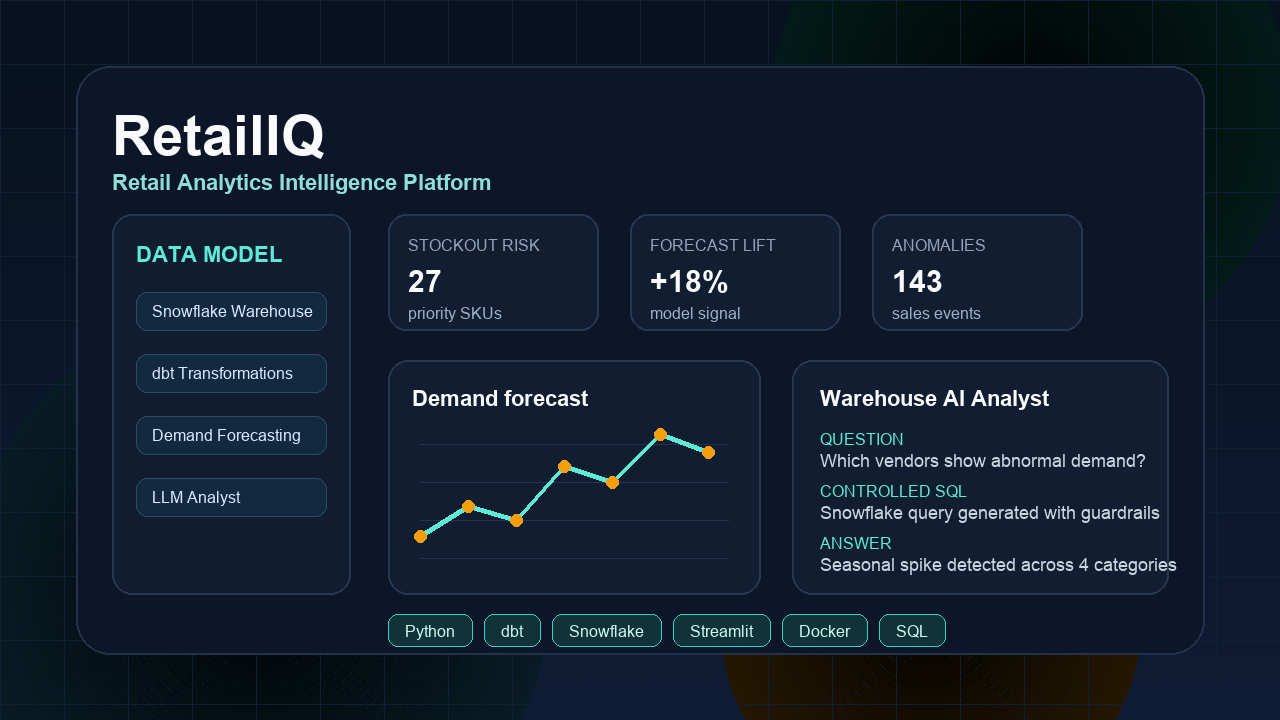
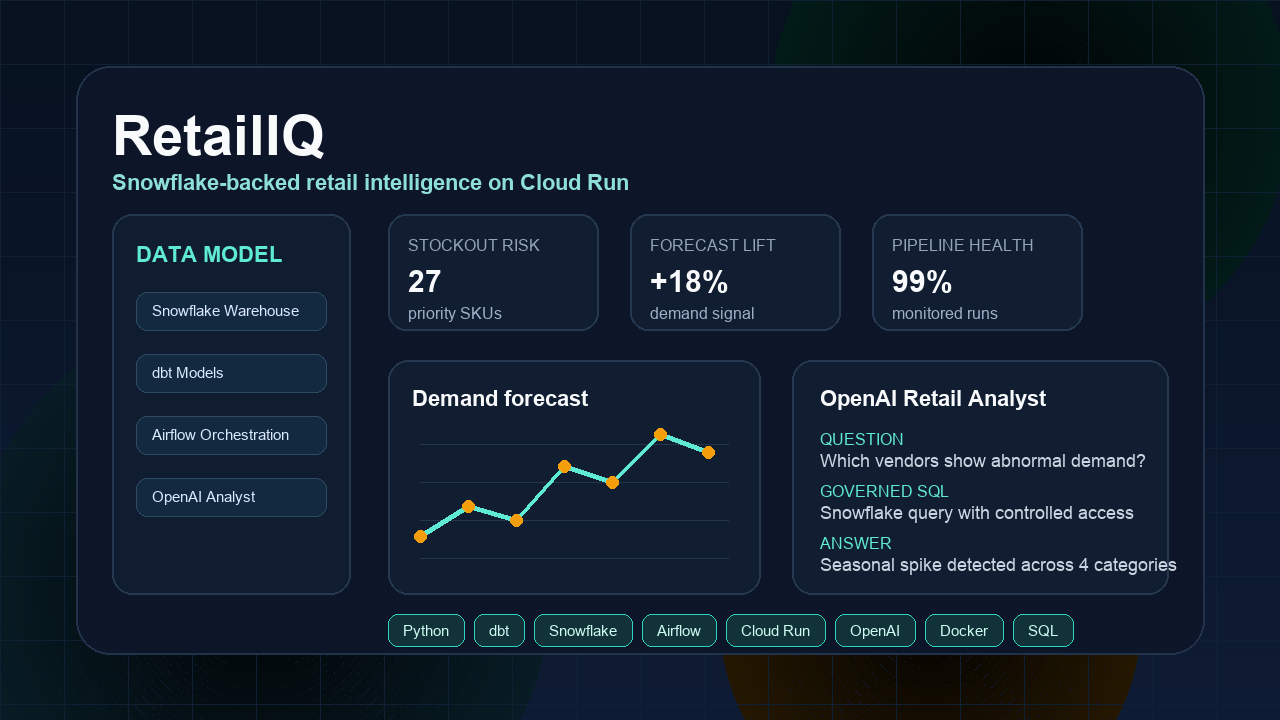
Sync portfolio with latest resume

diff --git a/data-analyst-portfolio/src/data/siteData.js b/data-analyst-portfolio/src/data/siteData.js
@@ -86,6 +86,7 @@ export const siteData = {
       "Neo4j",
       "Hadoop",
       "Kafka",
+      "Airflow",
       "GCP Cloud Storage",
       "Dataflow",
       "ETL Pipelines",
@@ -108,6 +109,7 @@ export const siteData = {
       "JIRA",
       "Confluence",
       "dbt",
+      "OpenAI",
     ],
     "Soft Skills": [
       "Stakeholder Communication",
@@ -126,6 +128,7 @@ export const siteData = {
     "BigQuery",
     "Tableau",
     "Snowflake",
+    "Airflow",
     "RAG",
     "Streamlit",
   ],
@@ -205,15 +208,15 @@ export const siteData = {
       image: "/project-images/retailiq-dashboard.png",
       imageAlt: "RetailIQ retail analytics dashboard preview with forecasting, anomaly, and AI analyst panels",
       impact:
-        "Built a cloud-deployed retail analytics platform that turns Walmart sales data into Snowflake-backed forecasting and KPI dashboards.",
+        "Built a Snowflake-backed retail intelligence platform that turns Walmart sales data into demand forecasts, stockout risk scores, anomaly alerts, and executive dashboards.",
       description:
-        "Developed RetailIQ with Python, dbt, Snowflake, Streamlit, Docker, SQL, demand forecasting, anomaly detection, stockout risk tracking, and governed LLM analyst workflows.",
+        "Deployed RetailIQ on Google Cloud Run with dbt, Airflow, Docker, and OpenAI-powered analysis, including production-style pipeline health monitoring and governed Snowflake SQL access.",
       caseStudy: {
         problem: "Convert Walmart sales data into reliable demand, stockout, anomaly, and KPI intelligence.",
-        approach: "Built Python, dbt, Snowflake, Streamlit, and Docker pipelines with controlled SQL generation for warehouse questions.",
-        result: "Delivered a cloud-deployed analytics platform with Snowflake-backed dashboards and governed LLM analyst workflows.",
+        approach: "Built Python, dbt, Snowflake, Airflow, Streamlit, Docker, SQL, and OpenAI workflows with controlled Snowflake SQL access.",
+        result: "Delivered a Google Cloud Run app with production-style pipeline health monitoring and governed AI analysis.",
       },
-      tech: ["Python", "dbt", "Snowflake", "Streamlit", "Docker", "SQL", "Demand Forecasting"],
+      tech: ["Python", "dbt", "Snowflake", "Airflow", "Streamlit", "Docker", "SQL", "OpenAI", "Demand Forecasting"],
       links: [
         { label: "Demo", url: "https://retailiq-demand-intelligence-420746557396.us-central1.run.app/AI_Retail_Analyst" },
       ],
